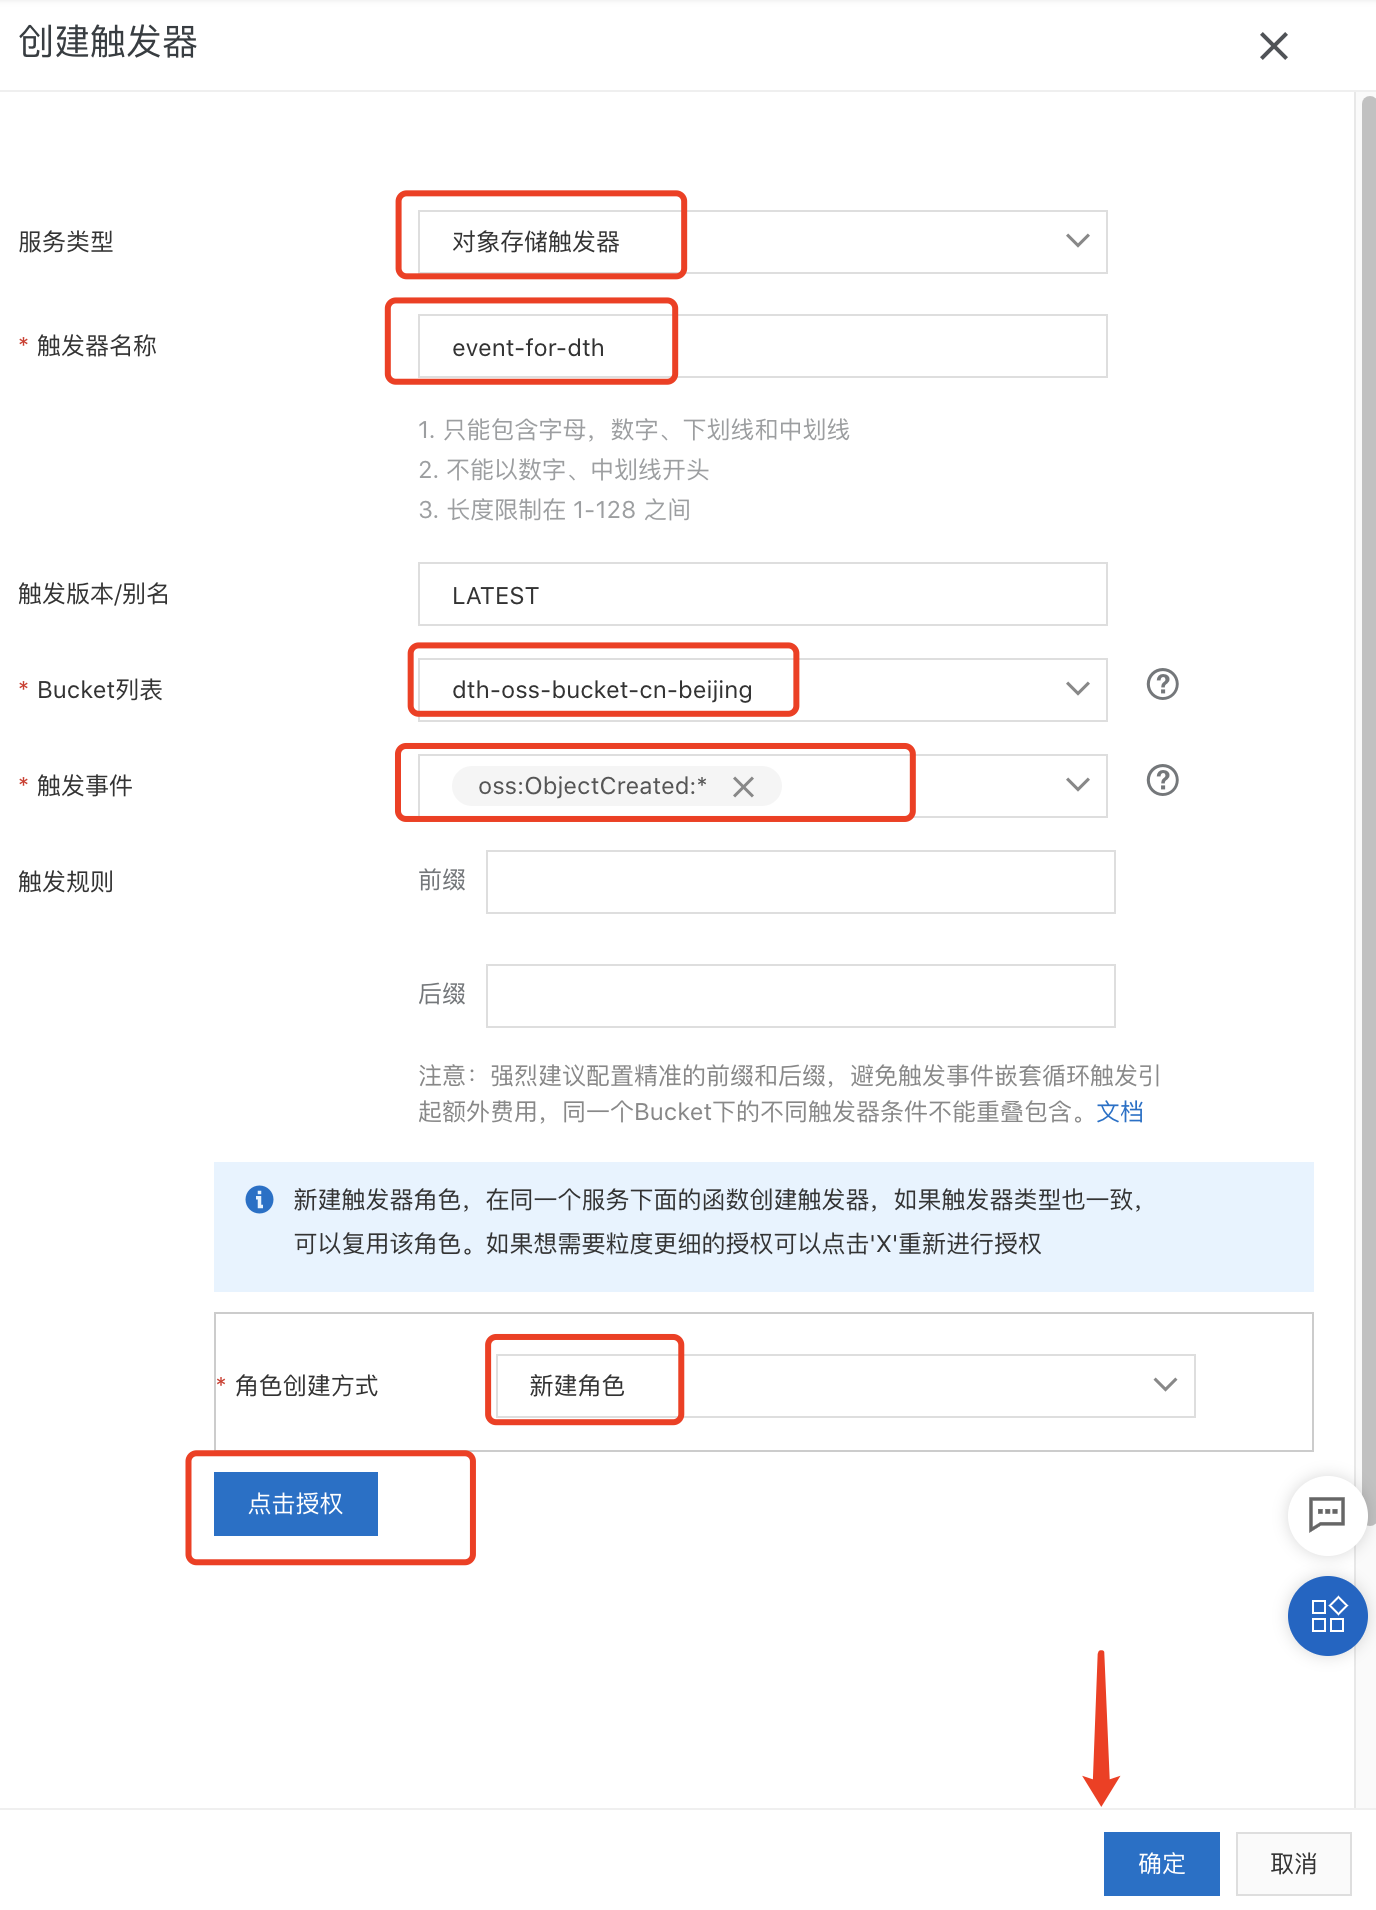
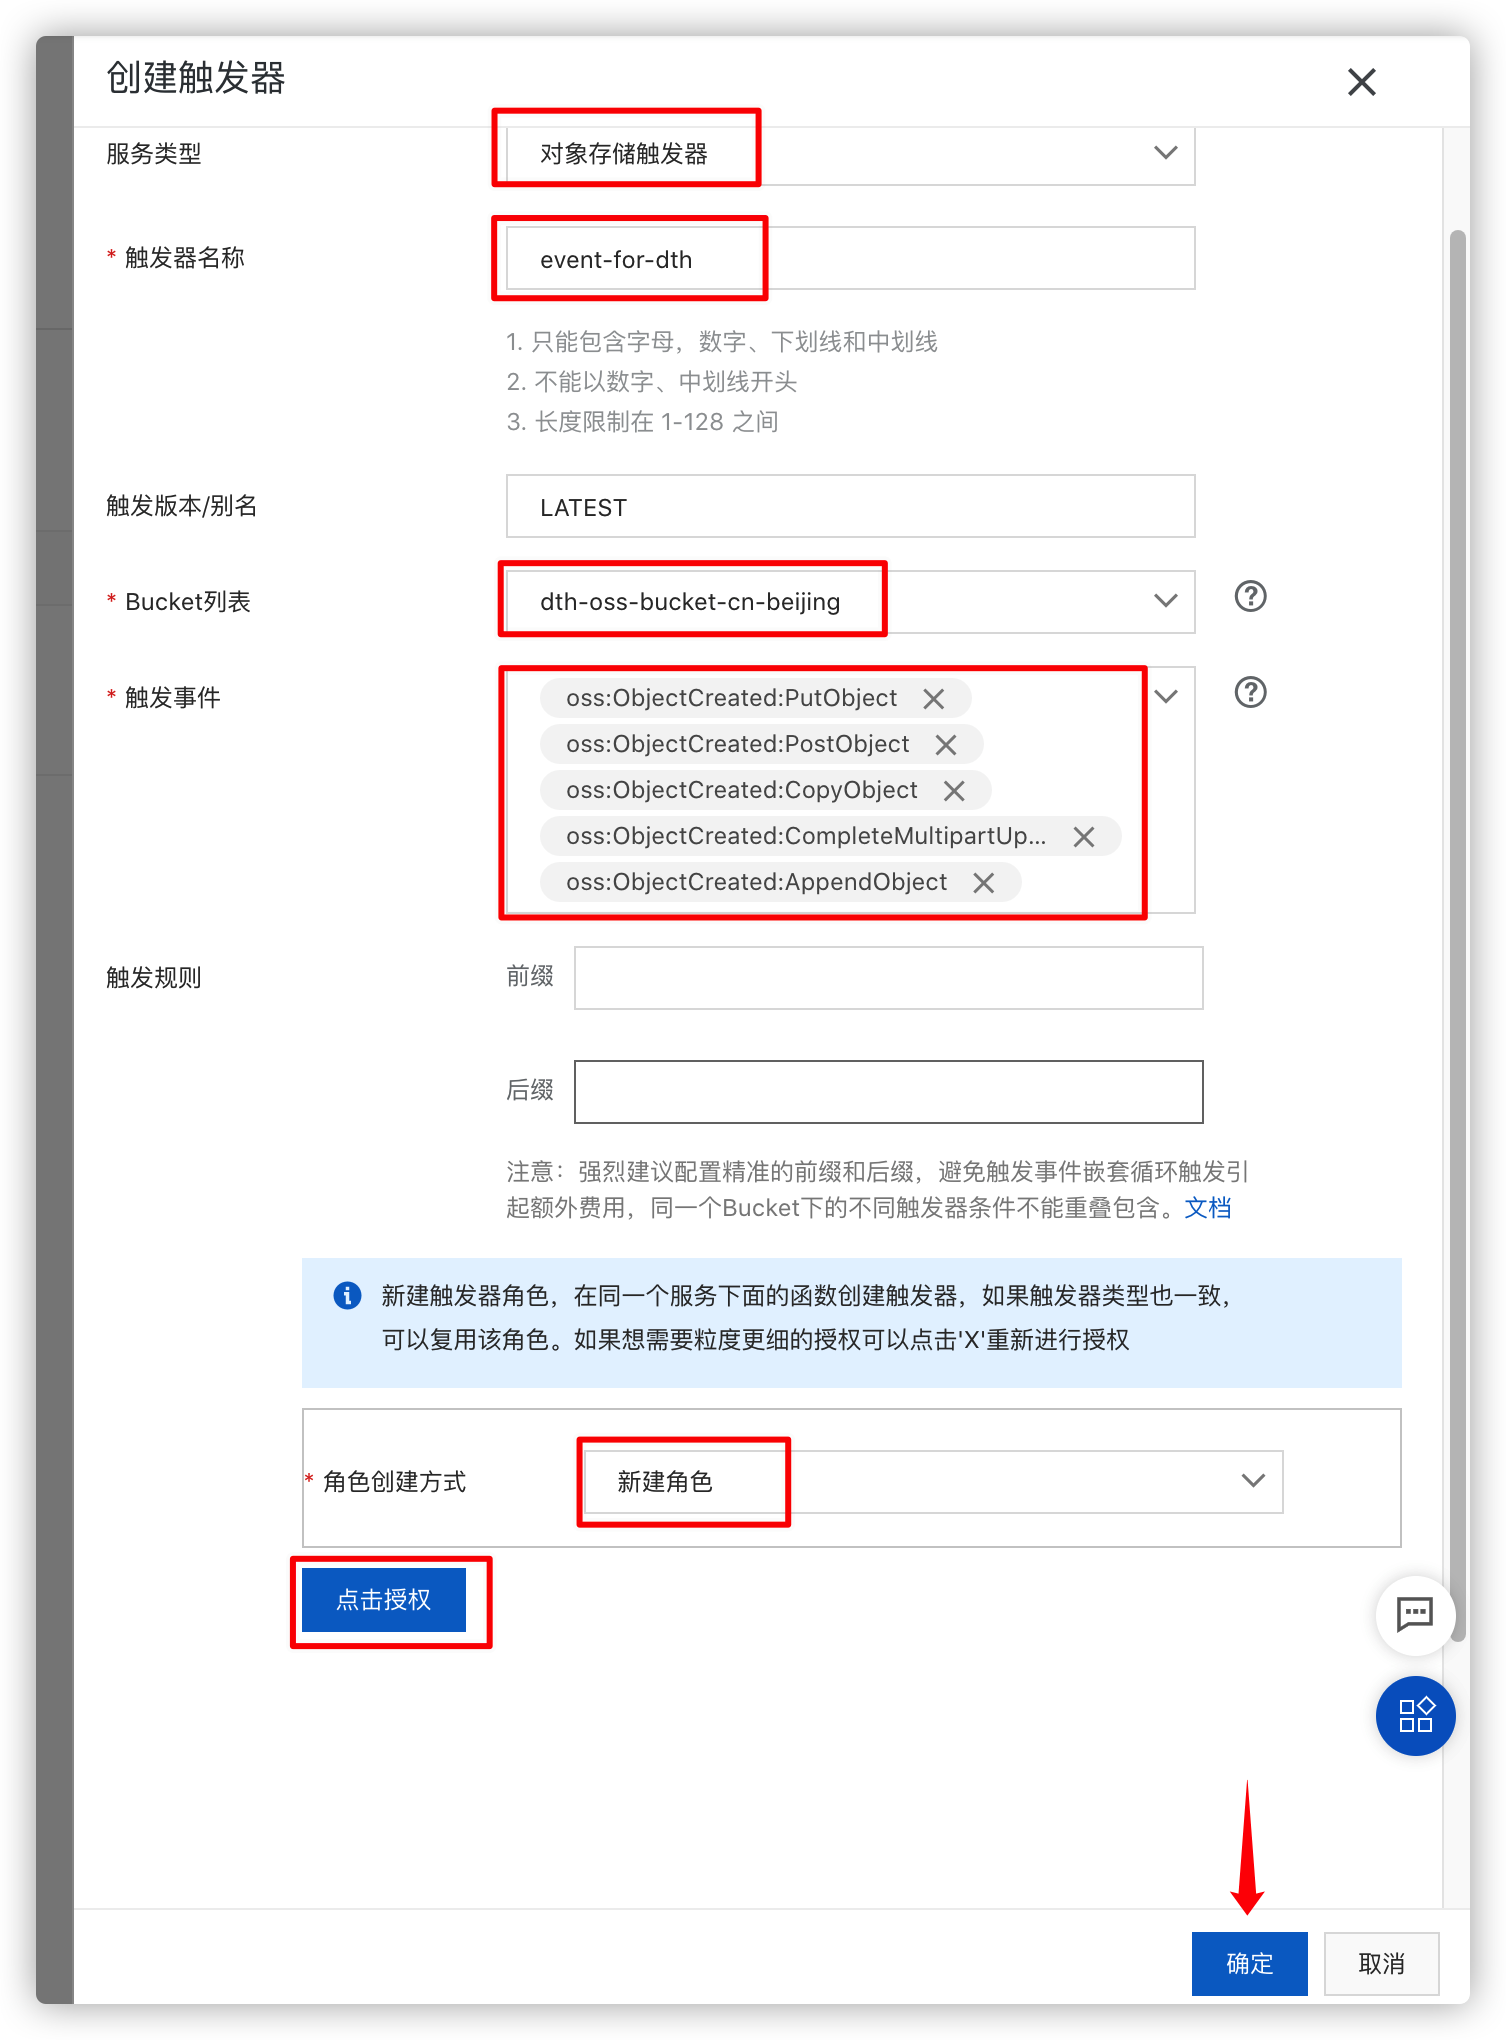
chore: update the aliyun event function's event rule

diff --git a/docs/tutortial-migration-oss-to-s3_CN.md b/docs/tutortial-migration-oss-to-s3_CN.md
@@ -1,4 +1,7 @@
 # 将阿里云 OSS 中的数据迁移到 Amazon S3
+
+[English](./tutortial-migration-oss-to-s3.md)
+
 本教程为将数据从 **阿里云 OSS** 中的数据传输到的 **Amazon S3** 指南。
 
 我们假设您已经完成了Data Transfer Hub解决方案的部署。 并将解决方案部署在 **俄勒冈州（us-west-2）** 区域。
@@ -221,6 +224,14 @@ zip -r code.zip *
 
 ![portal](images/tutortial/OSS-to-s3/aliyun_create_trigger.png)
 
-然后配置触发器，如下图所示。
+然后配置触发器，如下图所示。 **触发事件**, 请选择:
+
+```
+oss:ObjectCreated:PutObject
+oss:ObjectCreated:PostObject 
+oss:ObjectCreated:CopyObject
+oss:ObjectCreated:CompleteMultipartUpload
+oss:ObjectCreated:AppendObject
+```
 
 ![portal](images/tutortial/OSS-to-s3/aliyun_trigger_config.png)

diff --git a/docs/tutortial-migration-oss-to-s3.md b/docs/tutortial-migration-oss-to-s3.md
@@ -216,6 +216,14 @@ Click the **创建触发器/create trigger** to create the trigger for the funct
 
 ![portal](images/tutortial/OSS-to-s3/aliyun_create_trigger.png)
 
-Then config the trigger as the picture show below.
+Then config the trigger as the picture show below. For **触发事件/Trigger Event**, please choose:
+
+```
+oss:ObjectCreated:PutObject
+oss:ObjectCreated:PostObject 
+oss:ObjectCreated:CopyObject
+oss:ObjectCreated:CompleteMultipartUpload
+oss:ObjectCreated:AppendObject
+```
 
 ![portal](images/tutortial/OSS-to-s3/aliyun_trigger_config.png)
